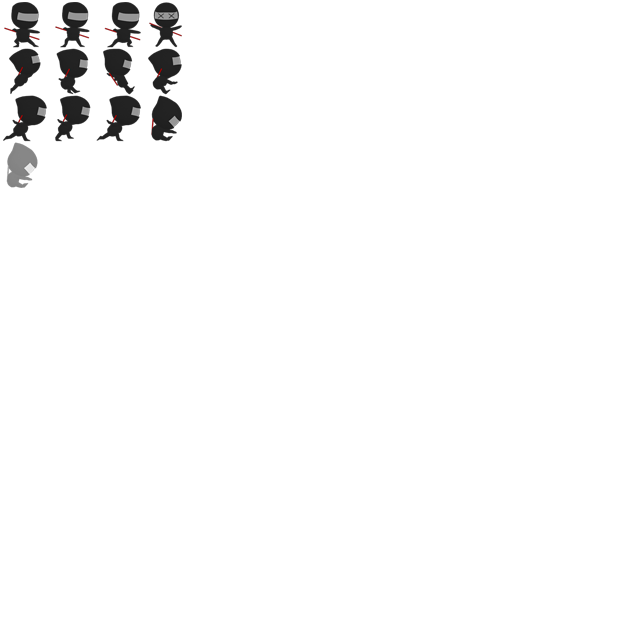
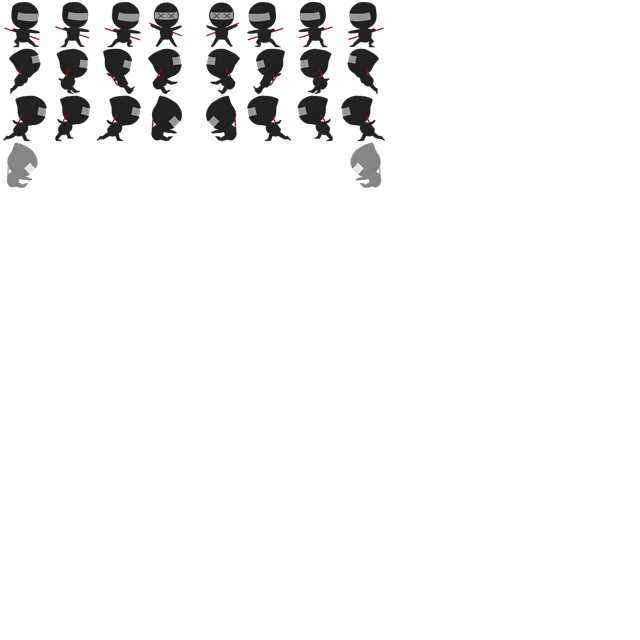
Starting animations

Changed region(s): [[0.3125, 0.0, 0.5938, 0.3125]]

diff --git a/Dev_class6_handout/Motor2D/j1Player.cpp b/Dev_class6_handout/Motor2D/j1Player.cpp
@@ -31,7 +31,11 @@ j1Player::~j1Player()
 bool j1Player::Awake(pugi::xml_node&)
 {
 	Player_Animation = &Idle;
-	Idle.PushBack({ 55, 2, PLAYER_WIDTH, PLAYER_HEIGHT });        // do this in tiled 
+	Idle.PushBack({ 55, 2, PLAYER_WIDTH, PLAYER_HEIGHT });       // do this in tiled 
+	Falling.PushBack({ 149, 1, PLAYER_WIDTH, PLAYER_HEIGHT });
+	Walking_Right.PushBack({ 3, 96, 42, 45 });
+	Walking_Left.PushBack({ 345, 95, 42, 45 });
+	                                                                               
 	return true;
 }
 
@@ -67,7 +71,6 @@ void j1Player::OnCollision(Collider* c1, Collider* c2) {
 	if (c1->type == COLLIDER_PLAYER && c2->type == COLLIDER_WALL) {
 
 		if (c1->rect.y <= c2->rect.y) {     // player on top (Landing) 
-
 			Onplat = true;
 			Jumping = false;
 			Vel.y = 0;
@@ -80,12 +83,12 @@ void j1Player::OnCollision(Collider* c1, Collider* c2) {
 				if (Vel.x > 0) {
 					Pos.x = c2->rect.x - PLAYER_WIDTH;
 				}
-
+				
 			}
 
-			else if (c1->rect.x >= (c2->rect.x + c2->rect.w)) {    // tries to go left
+			else if (c1->rect.x > (c2->rect.x + c2->rect.w)) {    // tries to go left
 
-				if (Vel.x < 0) {
+				if (Vel.x <= 0) {
 					Pos.x = c2->rect.x + c2->rect.w;
 				}
 			}
@@ -129,7 +132,7 @@ void j1Player::OnCollision(Collider* c1, Collider* c2) {
 		Alive = false; 
 	}
 
-
+	
 
 	LOG("POSITION COLLIDER 1 x: %i  y: %i   COLLIDER 2 x: %i  y: %i", c1->rect.x, c1->rect.y, c2->rect.x, c2->rect.y); 
 
@@ -254,20 +257,25 @@ PlayerState j1Player::Get_Player_State() {
 				State = FALLING_DOWN;
 			}
 		}
+
+		Player_Animation = &Falling;
 	}
 
 	else {    // IN THE GROUND
 
 		if (App->input->GetKey(SDL_SCANCODE_A) == KEY_REPEAT) {
 			State = WALKING_LEFT;
+			Player_Animation = &Walking_Left; 
 		}
 
 		else if (App->input->GetKey(SDL_SCANCODE_D) == KEY_REPEAT) {
 			State = WALKING_RIGHT;
+			Player_Animation = &Walking_Right; 
 		}
 
 		else {
 			State = IDLE;
+			Player_Animation = &Idle; 
 		}
 	}
 
@@ -279,7 +287,7 @@ PlayerState j1Player::Get_Player_State() {
 bool j1Player::Draw()
 {
 	
-	Player_Animation = &Idle;
+	
 	SDL_Rect Rect = Player_Animation->GetCurrentFrame();
 	App->render->Blit(Player_Texture, Pos.x, Pos.y, &Rect, 1);
 

diff --git a/Dev_class6_handout/Motor2D/j1Player.h b/Dev_class6_handout/Motor2D/j1Player.h
@@ -65,13 +65,17 @@ private:
 	SDL_Texture* Player_Texture = nullptr;
 	Animation* Player_Animation = nullptr;
 	Animation Idle;
+	Animation None;
+	Animation Falling; 
+	Animation Walking_Right; 
+	Animation Walking_Left;
 
 	
 
 public: 
 
 	PlayerState State;
-	Animation None;
+	
 	fPoint Pos;
 	fPoint Vel;
 	fPoint Acc;
